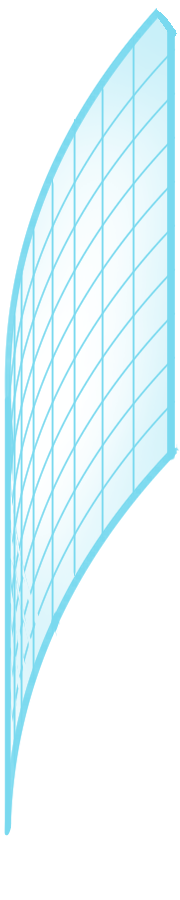
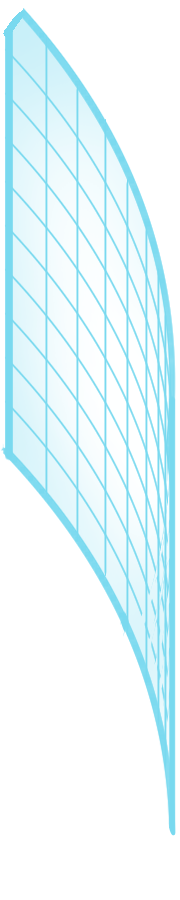
update
杂项优化：cube投掷物、firewall z轴order前后排序、cube shader优化

diff --git a/scripts/effects/FireWall.cs b/scripts/effects/FireWall.cs
@@ -1,0 +1,31 @@
+using Godot;
+
+namespace Kuros.Effects
+{
+    [GlobalClass]
+    public partial class FireWall : Node2D
+    {
+        [Export] public Godot.Collections.Array<SceneSpawnEntry> Segments { get; set; } = new();
+
+        public override void _Ready()
+        {
+            CallDeferred(nameof(SpawnSegments));
+        }
+
+        private void SpawnSegments()
+        {
+            var parent = GetParent();
+            foreach (var seg in Segments)
+            {
+                if (seg?.Scene == null) continue;
+                var instance = seg.Scene.Instantiate();
+                parent.AddChild(instance);
+                if (instance is Node2D n)
+                {
+                    n.GlobalPosition = GlobalPosition + seg.Position * Scale;
+                    n.Scale *= Scale;
+                }
+            }
+        }
+    }
+}

diff --git a/scripts/items/world/RigidBodyWorldItemEntity.cs b/scripts/items/world/RigidBodyWorldItemEntity.cs
@@ -1844,6 +1844,7 @@ namespace Kuros.Items.World
 					{
 						// 隐藏后加入场景树，触发 Shader 编译，然后立刻销毁
 						node2D.Visible = false;
+						node2D.ProcessMode = ProcessModeEnum.Disabled;
 						AddChild(node2D);
 						node2D.QueueFree();
 					}

diff --git a/scripts/effects/SceneSpawnEntry.cs b/scripts/effects/SceneSpawnEntry.cs
@@ -1,0 +1,11 @@
+using Godot;
+
+namespace Kuros.Effects
+{
+    [GlobalClass]
+    public partial class SceneSpawnEntry : Resource
+    {
+        [Export] public PackedScene? Scene { get; set; }
+        [Export] public Vector2 Position { get; set; }
+    }
+}
